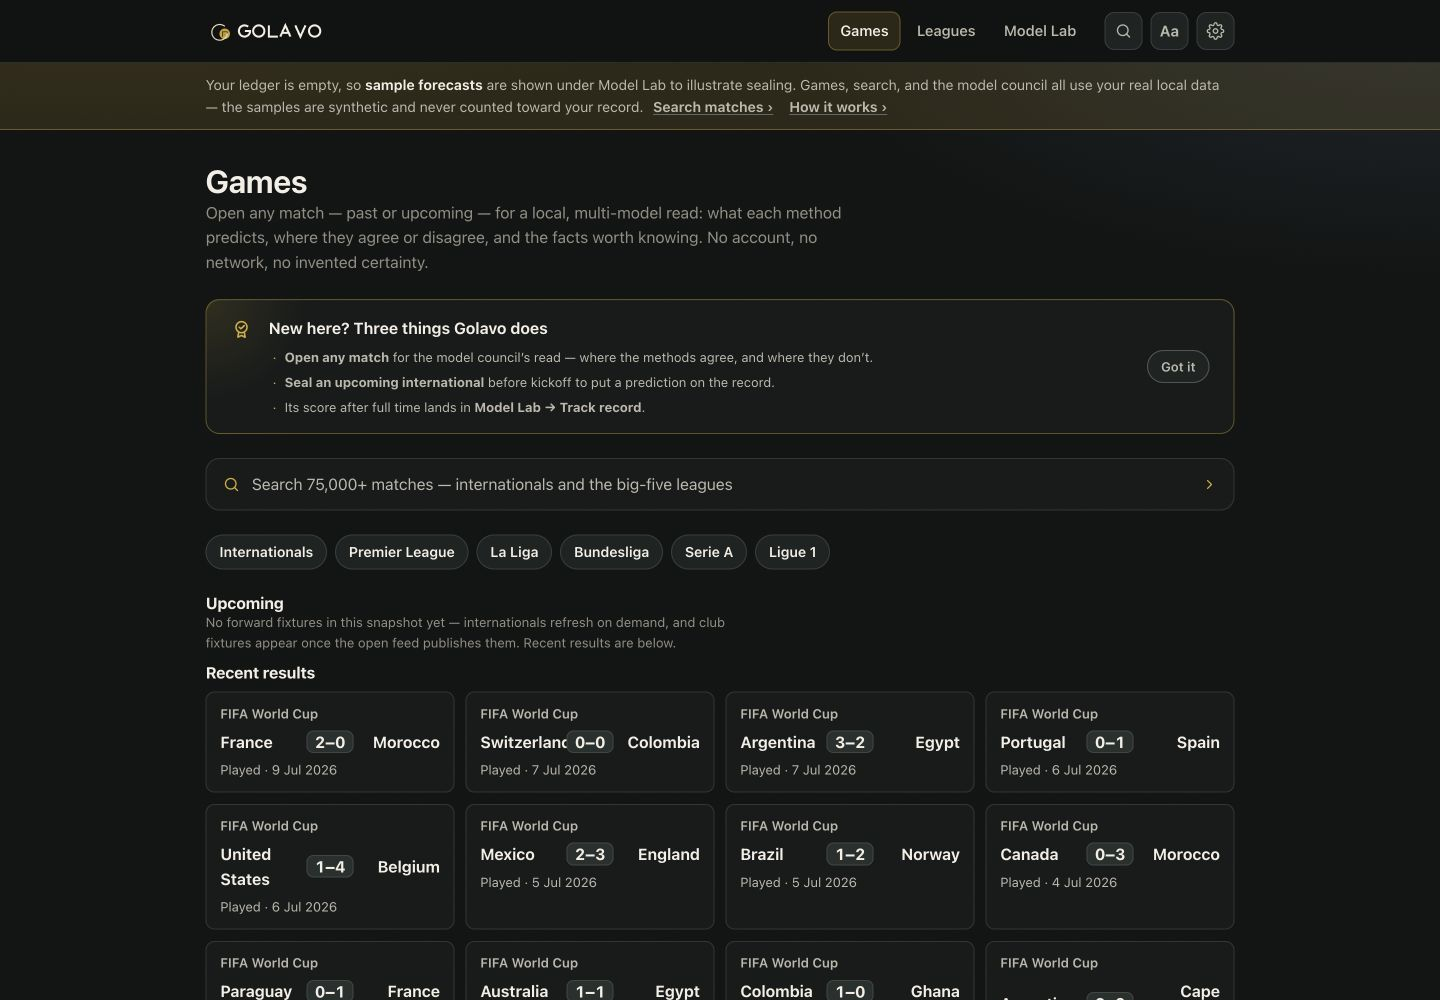
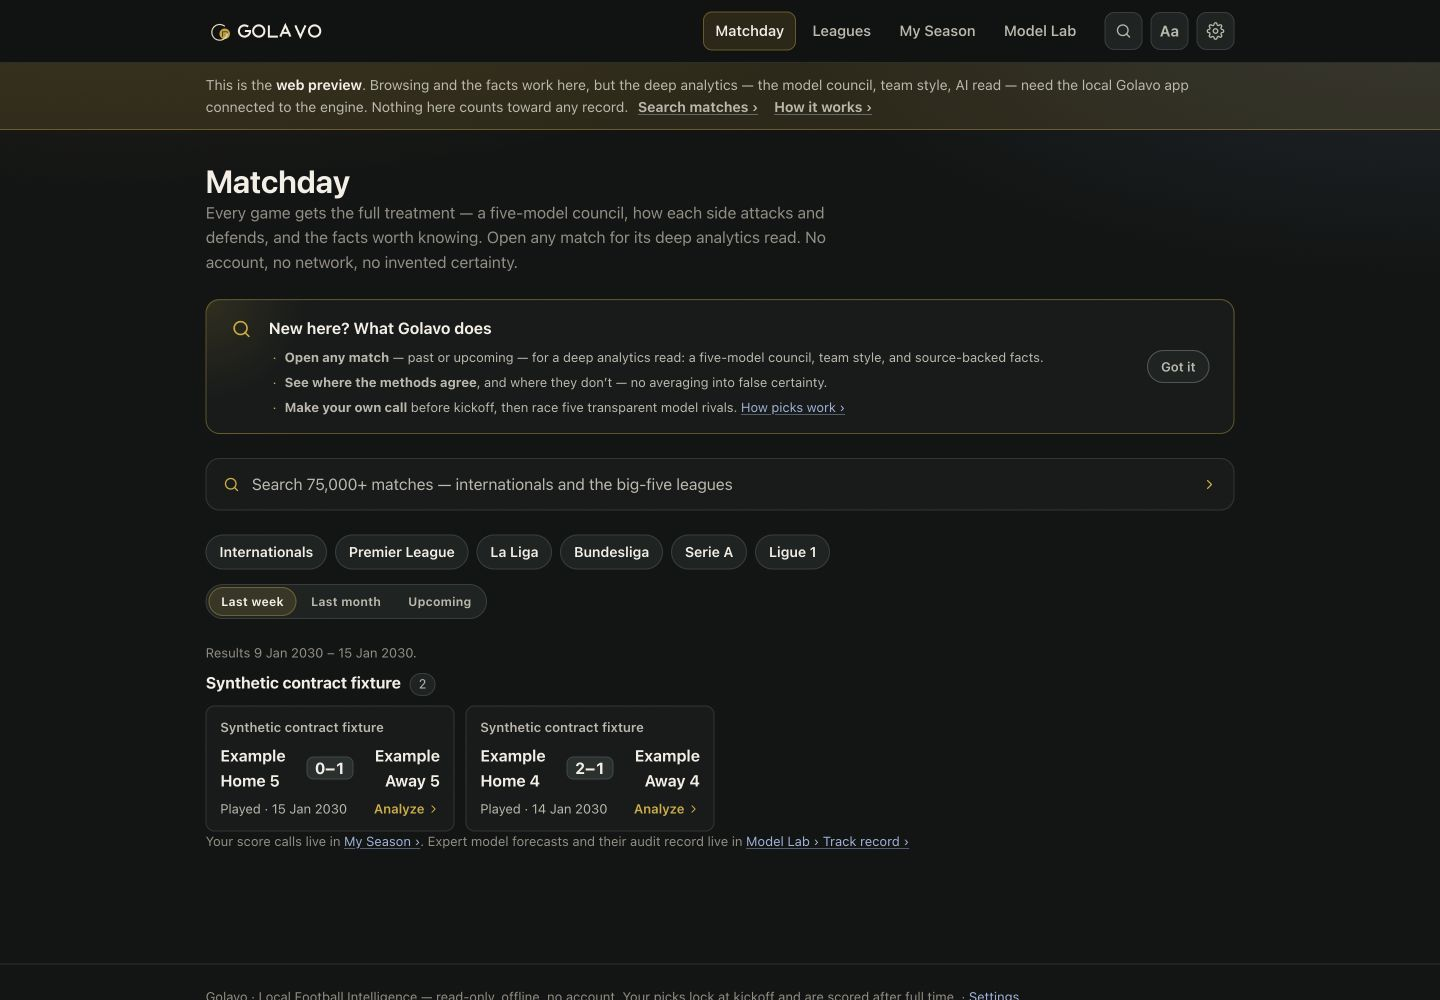
chore(release): prepare v0.9.0

diff --git a/core/golavo_core/__init__.py b/core/golavo_core/__init__.py
@@ -12,4 +12,4 @@ The engine owns every probability; nothing here performs network I/O outside
 `ingest`. Apache-2.0 licensed so the science stays reusable.
 """
 
-__version__ = "0.8.0"
+__version__ = "0.9.0"

diff --git a/server/golavo_server/__init__.py b/server/golavo_server/__init__.py
@@ -1,3 +1,3 @@
 """Golavo Phase 0 read-only local server."""
 
-__version__ = "0.8.0"
+__version__ = "0.9.0"

diff --git a/docs-site/src/content/docs/picks-and-points.md b/docs-site/src/content/docs/picks-and-points.md
@@ -1,0 +1,58 @@
+---
+title: Picks, points & My Season
+description: Call a score before kickoff, prove it stayed locked, and race five transparent model rivals across your season.
+---
+
+Picks are Golavo's private score-calling game. They are separate from **sealing**: a pick is
+*your* call and scores simple game points; a seal is the expert trust record for a model forecast.
+Neither involves money, odds, an account, or a hosted leaderboard.
+
+## Make a call
+
+Open any upcoming match and use the gold **Your call** ticket. Choose the home and away score,
+save it, and edit or remove it freely before kickoff. Golavo hides the five model calls until
+you save yours, so they cannot anchor the score you choose.
+
+At kickoff the record becomes immutable. Its canonical JSON receives a SHA-256 fingerprint;
+if the locked bytes changed later, verification would fail. When only a match date is known,
+the call locks conservatively at 00:00 UTC as that match day begins.
+
+## Points
+
+| Call | Points |
+| --- | ---: |
+| Exact final score | **3** |
+| Right outcome — home win, draw, or away win | **1** |
+| Strictly beat every available model rival | **+1** |
+
+Exact-score and outcome points stack. The bonus requires a strict win; a tie with the best rival
+does not earn it. A rival that abstains is ignored, and if all five abstain no bonus is available.
+Skipping a match costs nothing: you and the rivals are compared only on matches you play.
+
+## The five rivals
+
+- **Goal Machine**, **Plain Goals**, and **Twin Goals** call an exact score from their stored
+  score matrices.
+- **Form Ranker** and **History Buff** call only the outcome, so each tops out at one point.
+- An abstaining model makes no call. Golavo never manufactures an exact score from 1X2
+  probabilities.
+
+The rivals are deterministic projections of the same pre-kickoff analysis shown in the cockpit.
+Their snapshot is pinned into your locked record, so the comparison cannot drift after kickoff.
+
+## My Season
+
+**My Season** totals your points, exact scores, outcomes, bonuses, current streak, and best streak.
+The standings and points race include the same five rivals, filtered to the matches you called.
+Draft, locked, scored, and voided records remain distinct; voided matches do not break a streak.
+
+In the web preview, picks live only in that browser's local storage and are prominently labelled
+**Practice mode — never counted**. In the desktop app they live under the local ledger directory
+and survive restarts. No pick is uploaded.
+
+:::note[No gambling mechanics]
+There is no money, wagering, odds feed, public account, or prize. Picks are a local comparison
+between your football judgment and five disclosed deterministic methods.
+:::
+
+For the model-trust workflow, see [Model Lab & the track record](/Golavo/prediction-ledger/).

diff --git a/docs-site/src/content/docs/match-enrichment.md b/docs-site/src/content/docs/match-enrichment.md
@@ -1,0 +1,44 @@
+---
+title: Match Notes & optional enrichment
+description: How Golavo turns deterministic match evidence into an editorial Match Notes read, and where optional lineup enrichment stops.
+---
+
+**Match Notes** is the cockpit's editorial layer for descriptive evidence. It reorganizes facts
+that already cleared the engine's sample, freshness, and source guards; it does not create new
+facts or become a second forecast model.
+
+## What ships in v0.9.0
+
+- a cover story chosen only after the fixed-rule **Three things to know** have been removed;
+- each side's last-five pre-kickoff form timeline;
+- the goal model's attack and defence profile, explicitly labelled as fitted from results;
+- scorer spotlights when the vendored source actually contains scorer data;
+- head-to-head and signature-stat layouts with sample, minimum sample, freshness, date range,
+  scope, and a per-fact source disclosure;
+- coincidences preserved in a quarantined **For the pub** sidebar, capped and never shown to AI;
+- a footer naming the fixed fact family, rule-set version, suppressed-candidate count, and sources.
+
+Sparse data stays sparse. A section renders only when its typed evidence exists; Golavo does not
+fill the page with inferred tactics, players, or formations.
+
+## Typical formations: progressive enhancement
+
+The UI includes a strict parser and mini-pitch renderer for conventional ten-outfield-player
+formation strings. It renders only from a future typed enrichment response and always labels the
+shape **typical, from recent lineups — not today's team sheet**.
+
+The network adapter is intentionally **not enabled in v0.9.0**. The planned source is API-Football
+with a per-user key, off by default, a visible daily quota, and a permanent local cache for finished
+lineups. Before that adapter ships, its free-season coverage and real quota headers must be verified
+with a user-owned key. The core game, models, pick records, sealed artifacts, and AI numeric
+whitelist never depend on it.
+
+## Authority boundary
+
+```text
+vendored results -> deterministic analysis and facts -> Match Notes presentation
+optional lineup API -> display-only enrichment ------^ (never model or pick input)
+```
+
+See [Fact & Coincidence engine](/Golavo/methodology/facts/) for the registered fact rules and
+[Privacy & security](/Golavo/privacy-security/) for the local-first network boundary.

diff --git a/README.md b/README.md
@@ -12,7 +12,8 @@
 
 <p align="center">
   An honest, local-first football intelligence cockpit. Open any match — past or upcoming —<br>
-  and see what the models predict, where they disagree, and why. Seal a prediction<br>
+  and see what the models predict, where they disagree, and why. Call the score,<br>
+  race five transparent model rivals, or seal an expert prediction<br>
   before kickoff to put it on the record.<br>
   No odds. No oracle. No moving the goalposts.
 </p>
@@ -26,7 +27,7 @@
 </p>
 
 <p align="center">
-  <img alt="version v0.7.0" src="https://img.shields.io/badge/version-v0.7.0-6082b8?style=flat-square">
+  <img alt="version v0.9.0" src="https://img.shields.io/badge/version-v0.9.0-6082b8?style=flat-square">
   <img alt="Local-first" src="https://img.shields.io/badge/runtime-local--first-0b6e4f?style=flat-square">
   <img alt="macOS and Windows" src="https://img.shields.io/badge/desktop-macOS_%2B_Windows-101312?style=flat-square">
   <img alt="Unsigned pre-alpha" src="https://img.shields.io/badge/status-unsigned_pre--alpha-d9622b?style=flat-square">
@@ -43,7 +44,7 @@
 </p>
 
 > [!WARNING]
-> Golavo is a **v0.7.0 pre-alpha** with OS-unsigned installers, built in the open. The
+> Golavo is a **v0.9.0 pre-alpha** with OS-unsigned installers, built in the open. The
 > deterministic engine, the on-demand multi-model **Match Cockpit** (Replay for a played
 > match, Preview for a scheduled one), Games-first browsing, historical backtests, the
 > international seal→score loop, calibration record, optional guarded AI narration, and
@@ -56,7 +57,8 @@
 | If you are here to… | Start with | What you get |
 | --- | --- | --- |
 | **Read a match** | Games → open any past or upcoming fixture | Two separate model voices, the likely scoreline, honest disagreement, and three source-backed facts |
-| **Put a prediction on the record** | Seal an eligible upcoming international | An immutable pre-kickoff claim that is scored or voided later without rewriting the original |
+| **Play the season** | Make a score call on any upcoming match | A kickoff-locked pick, simple points, and a private race against five deterministic rivals |
+| **Put a model prediction on the record** | Seal an eligible upcoming international | An immutable expert claim that is scored or voided later without rewriting the original |
 | **Audit the system** | Model Lab | Track record, chronological backtests, methodologies, calibration, artifact hashes, and provenance |
 | **Build or review the code** | [Architecture](https://udhawan97.github.io/Golavo/architecture/) → [Build from source](https://udhawan97.github.io/Golavo/build-from-source/) | The Tauri → React → FastAPI → deterministic Python boundary, typed contracts, and local verification commands |
 
@@ -67,6 +69,26 @@
 <p align="center">
   <sub><strong>Games first.</strong> A fresh install opens on football: search, leagues, recent results, and any honestly available upcoming fixtures.</sub>
 </p>
+
+## Play the season
+
+Make the score call you believe before kickoff, then let the final result settle it. Your pick
+locks with a SHA-256 fingerprint and joins **My Season**, a private race against five disclosed
+model rivals on exactly the matches you choose to play.
+
+<p align="center">
+  <img src="docs-site/public/screenshots/my-season.png" alt="Golavo My Season standings and pick history against five deterministic model rivals" width="920">
+</p>
+
+- **3 points** for the exact score, **1** for the right winner or draw, and **+1** only when
+  your call strictly beats every available rival.
+- Rival calls stay hidden until you save yours. Goal models call exact scores; ratings and the
+  historical baseline call only the outcome. An abstaining model never gets a made-up pick.
+- No money, odds, account, public leaderboard, or upload. The web preview is clearly labelled
+  practice mode; the desktop app keeps picks in its local ledger.
+
+[How picks and points work](https://udhawan97.github.io/Golavo/picks-and-points/) ·
+[Match Notes and optional enrichment](https://udhawan97.github.io/Golavo/match-enrichment/)
 
 ## The Match Cockpit
 
@@ -110,13 +132,14 @@ The model gets one chance to speak before kickoff. VAR is not available for JSON
 | :---: | --- | --- |
 | 🔭 | **Open any match in the Match Cockpit** — past or upcoming, club or international | A leak-safe multi-model read: two voices (Elo ratings, the Dixon–Coles goal model) plus a climatology baseline, where they agree or disagree, and the exact-score grid — computed on demand, never averaged into a fake consensus |
 | ⚽ | **Browse Games, Leagues, and search 75,000 matches** — recent results, any upcoming fixtures, the big-five leagues | A useful home from the first launch, offline, with an empty ledger — the app opens on football, not on an audit form |
+| 🎟️ | **Make your score call** — edit until kickoff, then race five named model rivals | A fingerprinted local pick, simple 3 / 1 / +1 scoring, and My Season standings over only the matches you play |
 | 📦 | **Pin lawful open data** — retain source refs, licenses, manifests, and SHA-256 hashes | A forecast that can name the exact bytes it learned from |
 | 🧪 | **Test five deterministic candidates** — climatology, Elo, independent Poisson, Dixon–Coles, and bivariate Poisson | Chronological log loss, Brier, ECE, RPS, and reliability instead of a victory-lap accuracy percentage |
 | 🔏 | **Track a prediction — seal before kickoff** — freeze probabilities, model version, seed, parameters, cutoff, and inputs | An immutable claim the result cannot rewrite; the cockpit’s live preview, put on the record |
 | 🥅 | **Show the scorelines implied by the model** — exact-score grid plus an honest out-of-grid tail | The same goal distribution behind the 1X2 forecast, not a decorative second guess |
 | 🧾 | **Score after full time** — write a linked scored or voided successor | Outcome, assigned probability, log loss, Brier, or a real void reason |
 | 📈 | **Keep a forward ledger** — aggregate genuine pre-kickoff seals separately from backtests | A calibration record that starts small because history is not available on back-order |
-| 🗒️ | **Open the Commentator's Notebook** — signature form stats you don't usually see: both-teams-scored rate, scoring momentum, clean-sheet rate, and the goal character of the head-to-head | Facts that add something the scoreline and the model can't — de-duplicated from the headline picks, labelled predictive / contextual / coincidence, and never invented |
+| 🗒️ | **Read Match Notes** — form timelines, fitted team style, scorer and head-to-head features, plus signature stats and records | Source-backed evidence in an editorial hierarchy, de-duplicated from the headline picks, with sample/freshness guards and coincidences quarantined |
 | 🏆 | **Read the match's history** — club comeback/lead records from recorded half-time scores, plus a trophy-and-awards shelf on exact FIFA World Cup fixtures | Source-backed context with visible sample limits and as-of filtering, never a second forecast engine |
 | 🤖 | **Enable the AI Analyst Read** *(optional)* — local Ollama/llama.cpp or cloud BYOK, with a one-click header toggle once configured. Pick **Fast** (a small model, seconds) or **Deep analysis** (a bigger model, usually 5–8 minutes); optionally let it **research the web** | Opens with a one-line **verdict**, then a cited synthesis that *connects* the evidence (never authors a number), with real staged progress. Deep puts a bigger model on more of the evidence with scenarios; opt-in web research adds a separate, clearly-badged *not-engine-verified* section. A dropped claim's content is never shown |
 | 👓 | **Switch Casual / Expert** | Plain-language reading or full seal, provenance, uncertainty, and score-matrix detail — same numbers, different studs |
@@ -136,6 +159,7 @@ The model gets one chance to speak before kickoff. VAR is not available for JSON
 | **Exact scores** | Goal-based seals include the coherent score grid they already imply, including an explicit high-score tail |
 | **Match Cockpit** | On-demand analysis for **any** indexed match at the seal's own `kickoff − 1s` cutoff: a **Replay** (played match, reconstructed with pre-kickoff data only) or **Preview** (scheduled match). Two voices plus a baseline, honest disagreement, model-implied goals, and the goal model's score grid — machine-checked leak-safe, never sealed, never averaged |
 | **Navigation** | Games-first home (recent + upcoming rails, offline), Leagues browse hub, and a Model Lab that holds Track record, Backtests, Methodologies, and the sealed-forecast list. Old `#/ledger` and `#/eval` links redirect into the Lab |
+| **Your Call / My Season** | Kickoff-locked score picks with SHA-256 integrity, durable local storage, five deterministic rivals, 3 / 1 / +1 scoring, standings, history, filters, cumulative points, and streaks |
 | **Workbench** | Match cockpit, forecast detail, historical Backtests, forward Track record, provenance, scored/voided/superseded states, Casual and Expert presentation, "three things to know" insight cards, re-seal "what moved" deltas, and reading-comfort themes (incl. a warm low-blue mode) |
 | **Facts** | Pre-registered deterministic templates; sample/freshness/base-rate guardrails; coincidences capped and quarantined |
 | **AI Deep Read** | Implemented, off by default, and additive; enabled from Settings → Local intelligence (local Ollama/llama.cpp or BYOK); schema, citation, numeric-whitelist, grounding, and betting-language guards fail closed to local-only |
@@ -411,7 +435,8 @@ not a legally binding promise made to a spreadsheet.
 | **7 — Facts** | deterministic Commentator's Notebook and quarantined coincidences | ✅ shipped |
 | **8 — Exact scores** | coherent score matrix plus Casual/Expert presentation | ✅ shipped |
 | **9 — Match Cockpit** | Games-first home, on-demand Replay/Preview model council for any match, Leagues browse, Model Lab relocation | ✅ shipped |
-| **Next** | live club fixtures, standings + season projections (League Outlook), lawful observed xG/lineups/injuries, club forward loop, hash-chained ledger, signed release | 🔭 planned |
+| **10 — Your Call** | kickoff-locked score picks, five deterministic rivals, simple points, My Season, and editorial Match Notes | ✅ shipped |
+| **Next** | live club fixtures, league standings + season projections (League Outlook), verified optional lineup enrichment, club forward loop, hash-chained ledger, signed release | 🔭 planned |
 
 Kill switches, entry criteria, and the less photogenic details live in the
 [full roadmap](https://udhawan97.github.io/Golavo/roadmap/).

diff --git a/CHANGELOG.md b/CHANGELOG.md
@@ -6,6 +6,40 @@ aims to follow [Semantic Versioning](https://semver.org/spec/v2.0.0.html).
 
 ## [Unreleased]
 
+## [0.9.0] - 2026-07-14
+
+Your score call now has its own honest game: pick before kickoff, prove the locked
+record stayed unchanged, and race five deterministic model rivals across My Season.
+The cockpit's evidence also moves into a calmer, editorial Match Notes read.
+
+### Added
+- **Your Call.** Upcoming matches have an editable 0–0 score ticket. Calls lock at
+  kickoff (or the start of a date-only match day), receive a canonical SHA-256
+  fingerprint, survive restarts in the local ledger, and score after full time.
+- **Transparent points race.** Exact score earns 3, the right outcome earns 1, and
+  strictly beating every available model earns a +1 bonus. Rival calls are derived
+  from stored model outputs, hidden until the user saves, and pinned at lock time.
+- **My Season.** A private dashboard tracks points, exact scores, outcomes, bonuses,
+  streaks, standings, cumulative progress, and pick history against five named rivals.
+- **Picks API and contract.** A versioned, additional-properties-closed pick schema;
+  durable draft/locked storage; typed GET/PUT/DELETE/list/summary endpoints; atomic
+  writes; one process lock; fixture-key fallback; integrity verification; and audit
+  events. Web preview uses clearly labelled, device-local practice records.
+- **Picks guide and onboarding.** A five-step worked example, simple 3 / 1 / +1
+  explanation, no-gambling FAQ, new tour anchors, and plain separation between the
+  user's game and expert forecast sealing.
+- **Match Notes.** Form timelines, fitted style, scorer and head-to-head features,
+  numbered signature facts, quarantined coincidences, and source/suppression folios
+  now share one magazine-style evidence surface. A strict formation parser and
+  display-only mini-pitch are ready for future typed enrichment.
+
+### Changed
+- Expert forecast sealing is a quiet cockpit row in Casual mode and retains its full
+  provenance treatment in Expert mode.
+- The optional API-Football/BYOK formation adapter is deferred to v0.9.1 until real
+  free-season coverage and quota headers can be verified with a user-owned key. Picks,
+  models, sealed artifacts, and AI evidence do not depend on it.
+
 ## [0.8.0] - 2026-07-14
 
 Half-time scores now tell the second-half story for club matches, while World Cup

diff --git a/docs-site/src/content/docs/matchday.md b/docs-site/src/content/docs/matchday.md
@@ -1,12 +1,12 @@
 ---
 title: Games & the Match Cockpit
-description: The screens you'll use — the Games home, the Match Cockpit, sealing before kickoff, Leagues, the Model Lab, and the Commentator's Notebook.
+description: The screens you'll use — Matchday, the Match Cockpit, your score call, My Season, Leagues, Match Notes, and Model Lab.
 ---
 
 Golavo opens on **games**, not on an audit form. The workbench is organized around four
-surfaces: a Games-first home, the **Match Cockpit** for any indexed match, the **Leagues**
-browse hub, and the **Model Lab** where the sealing, calibration, and evaluation machinery
-lives. Every match also carries a **Commentator's Notebook**. Below is what each does today.
+surfaces: a Matchday home, the **Match Cockpit** for any indexed match, **My Season** for your
+score-picking race, the **Leagues** browse hub, and **Model Lab** for expert audit machinery.
+Every match also carries source-backed **Match Notes**. Below is what each does today.
 
 ## Games (the home)
 
@@ -34,6 +34,9 @@ precomputed and nothing is stored: the cockpit is a live read, never a sealed ar
 
 Either way you get:
 
+- a gold **Your call** ticket on upcoming matches. Save a score, reveal the five deterministic
+  rivals, change it until kickoff, then let the final result decide the points;
+
 - **Two voices** — Elo (ratings) and Dixon–Coles (goals) — shown side by side, with whether
   they **agree or disagree**. The Poisson variants are disclosed but never counted as extra
   opinions, and a **climatology baseline** is shown for reference. Nothing is averaged into a
@@ -44,6 +47,13 @@ Either way you get:
 
 The cockpit is machine-checked leak-safe: the cutoff proof rejects any training row dated at or
 after `kickoff − 1s`.
+
+## My Season
+
+My Season is your private points race against five model rivals, scored only on matches you call.
+It keeps the pick history, standings, cumulative points, exact scores, correct outcomes, bonuses,
+and streaks together. See [Picks, points & My Season](/Golavo/picks-and-points/) for locking,
+fingerprints, and the 3 / 1 / +1 scoring rules.
 
 ## Seal before kickoff
 
@@ -83,20 +93,21 @@ The sealing, provenance, calibration, and evaluation machinery moved here, behin
 
 Old `#/ledger` and `#/eval` links redirect into the Lab, so existing bookmarks keep working.
 
-## Commentator's Notebook
+## Match Notes
 
-Every match page carries the Notebook: deterministic, source-backed facts computed at the same
+Every match page carries Match Notes: deterministic, source-backed facts computed at the same
 `kickoff − 1s` horizon, so it can never read the match's own result or anything later. Facts are
 labelled **predictive / context / coincidence**, each with its sample, base rate, source, and
 freshness. Coincidences are capped and quarantined ("for the pub, not the forecast") and are
 never shown to the AI. Nothing here changes a forecast — the fact package has a machine-checked
 rule that forbids it from importing any forecast, model, or calibration writer.
 
-Since v0.3.1 the Notebook also surfaces **signature form stats** most scoreboards never show —
+The magazine-style read also surfaces **signature form stats** most scoreboards never show —
 both-teams-scored rate, scoring momentum, clean-sheet rate, and the goal character of the
 head-to-head — and it is **de-duplicated** from the "three things to know" insight cards, so the
 Notebook is the deeper cut rather than a repeat. See the
-[Fact & Coincidence engine](/Golavo/methodology/facts/) page.
+[Fact & Coincidence engine](/Golavo/methodology/facts/) and
+[Match Notes & optional enrichment](/Golavo/match-enrichment/) pages.
 
 ## AI Analyst Read *(optional, off by default)*
 

diff --git a/docs-site/src/content/docs/prediction-ledger.md b/docs-site/src/content/docs/prediction-ledger.md
@@ -5,6 +5,13 @@ description: How Golavo seals a forecast before kickoff and scores it after full
 
 Golavo's accountability spine is the versioned `ForecastArtifact` contract. A forecast is **sealed** before kickoff and a later result produces a separate **scored** artifact; the sealed file is never mutated. As of Phase 3 this is a working forward loop for **men's senior full internationals only** — sealed real fixtures accumulate in `data/artifacts/`, and a read-only calibration record aggregates what happened after the whistle. A hash-chained multi-artifact ledger is still planned (ADR-0001).
 
+:::note[Seals are not picks]
+A **seal** freezes a model forecast for the expert trust record. A **pick** is your score call in
+the local My Season game. Picks use simple 3 / 1 / +1 points and live under the ledger's `picks/`
+directory, but never enter model calibration, log loss, Brier score, or the forecast artifact chain.
+See [Picks, points & My Season](/Golavo/picks-and-points/).
+:::
+
 ## What a seal records
 
 Each seal is an immutable JSON artifact (contract 0.2.0, additive over 0.1.0). The abbreviated shape is: